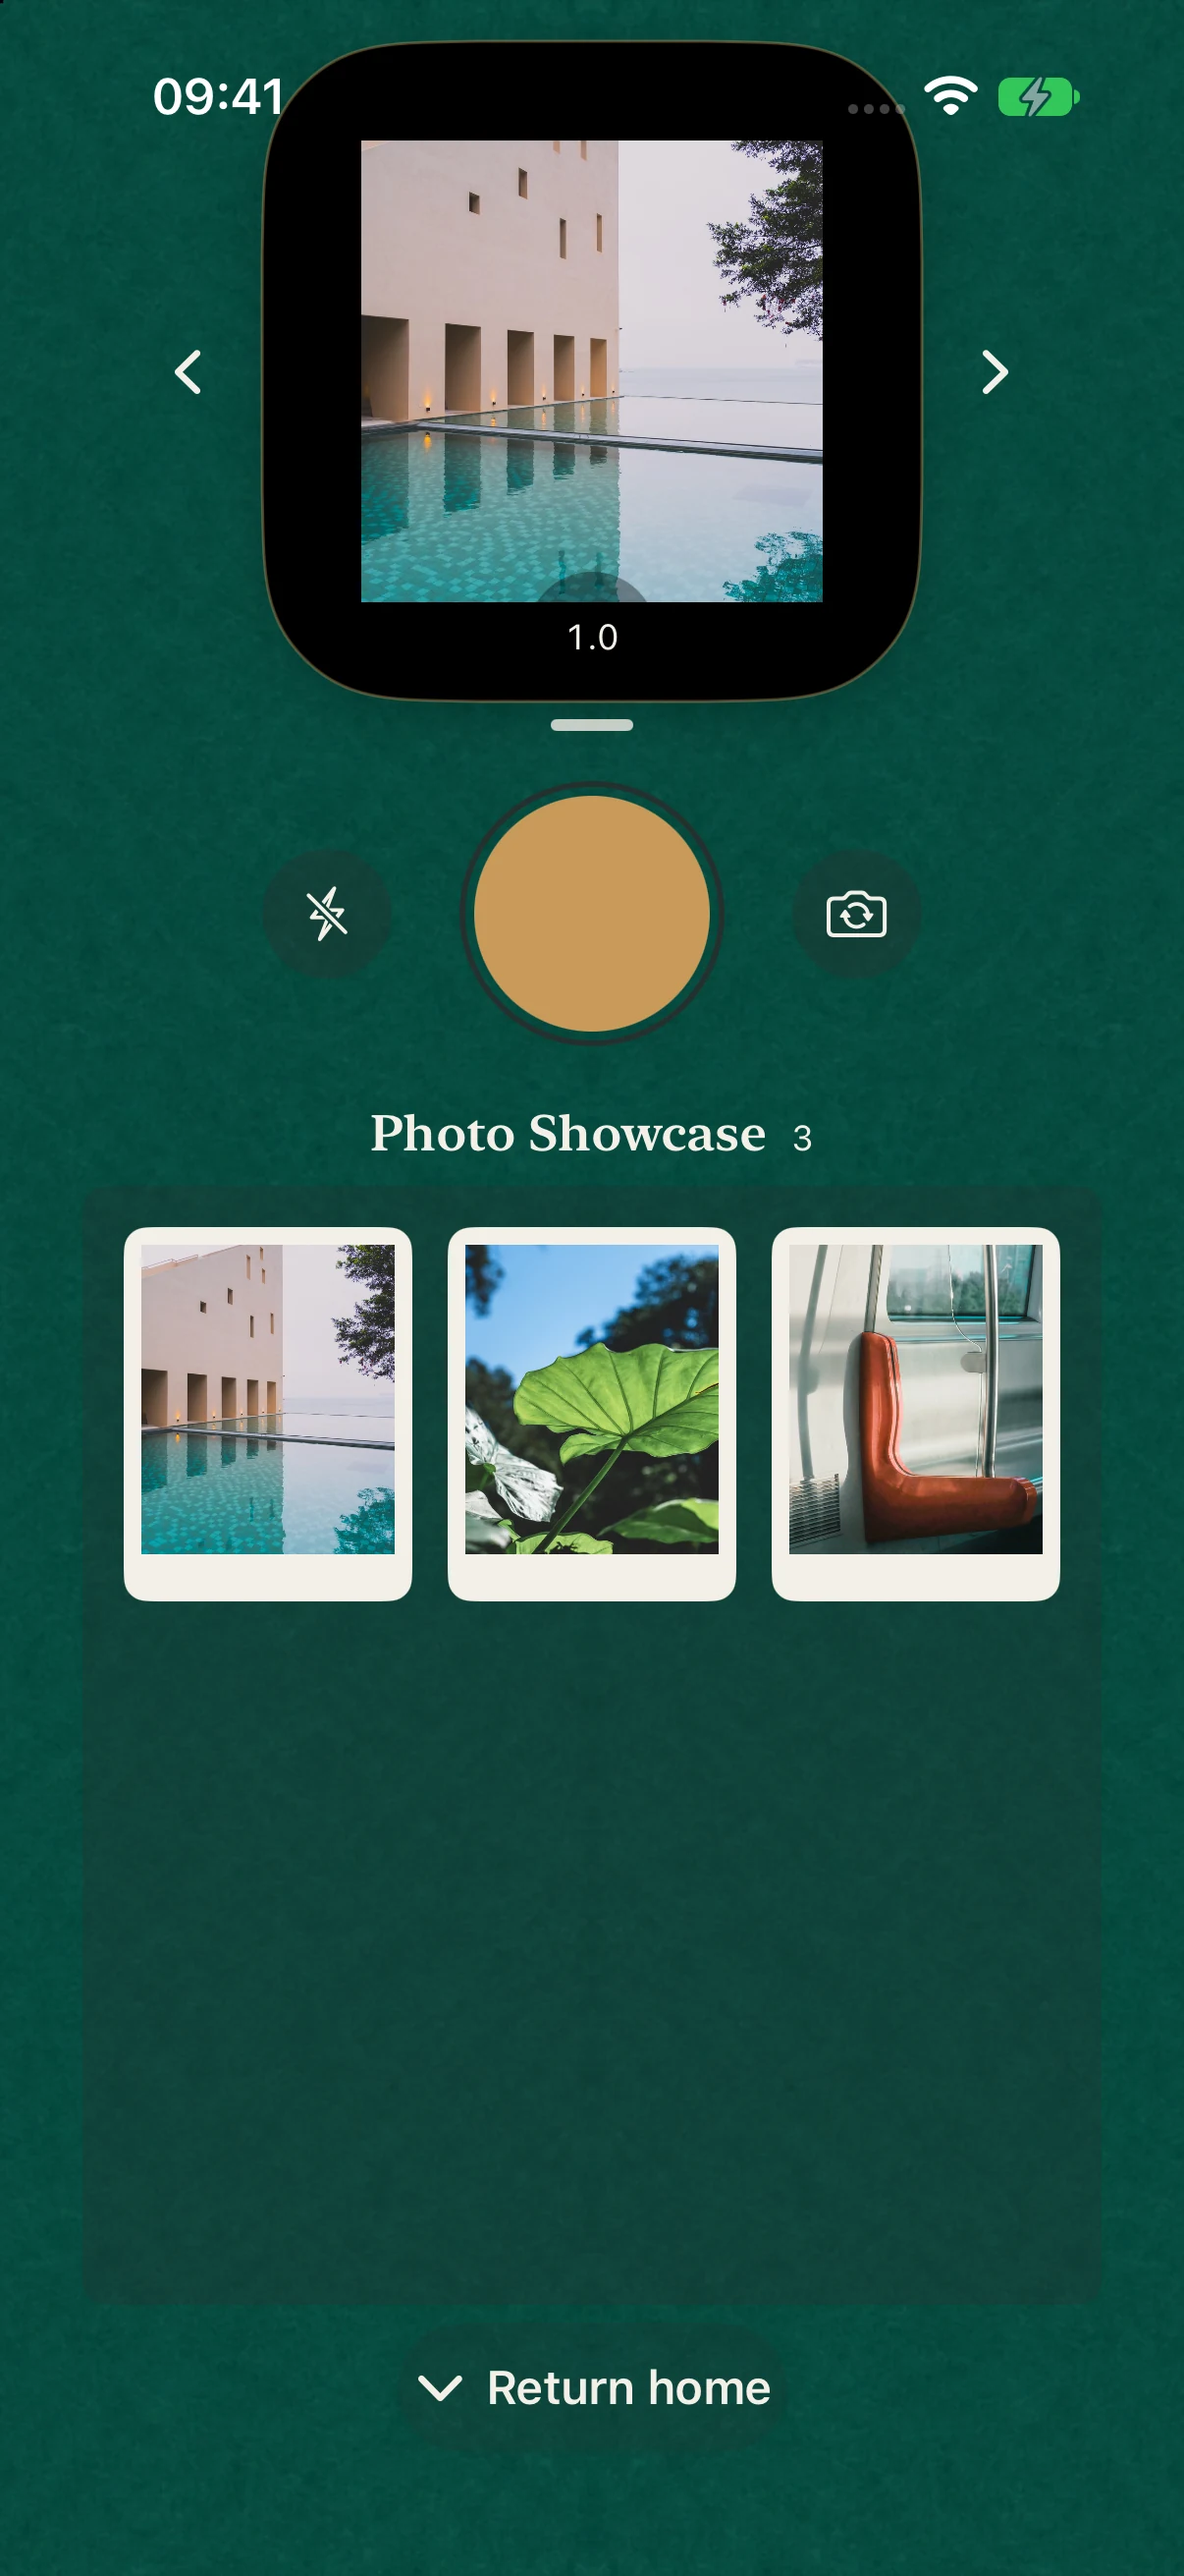
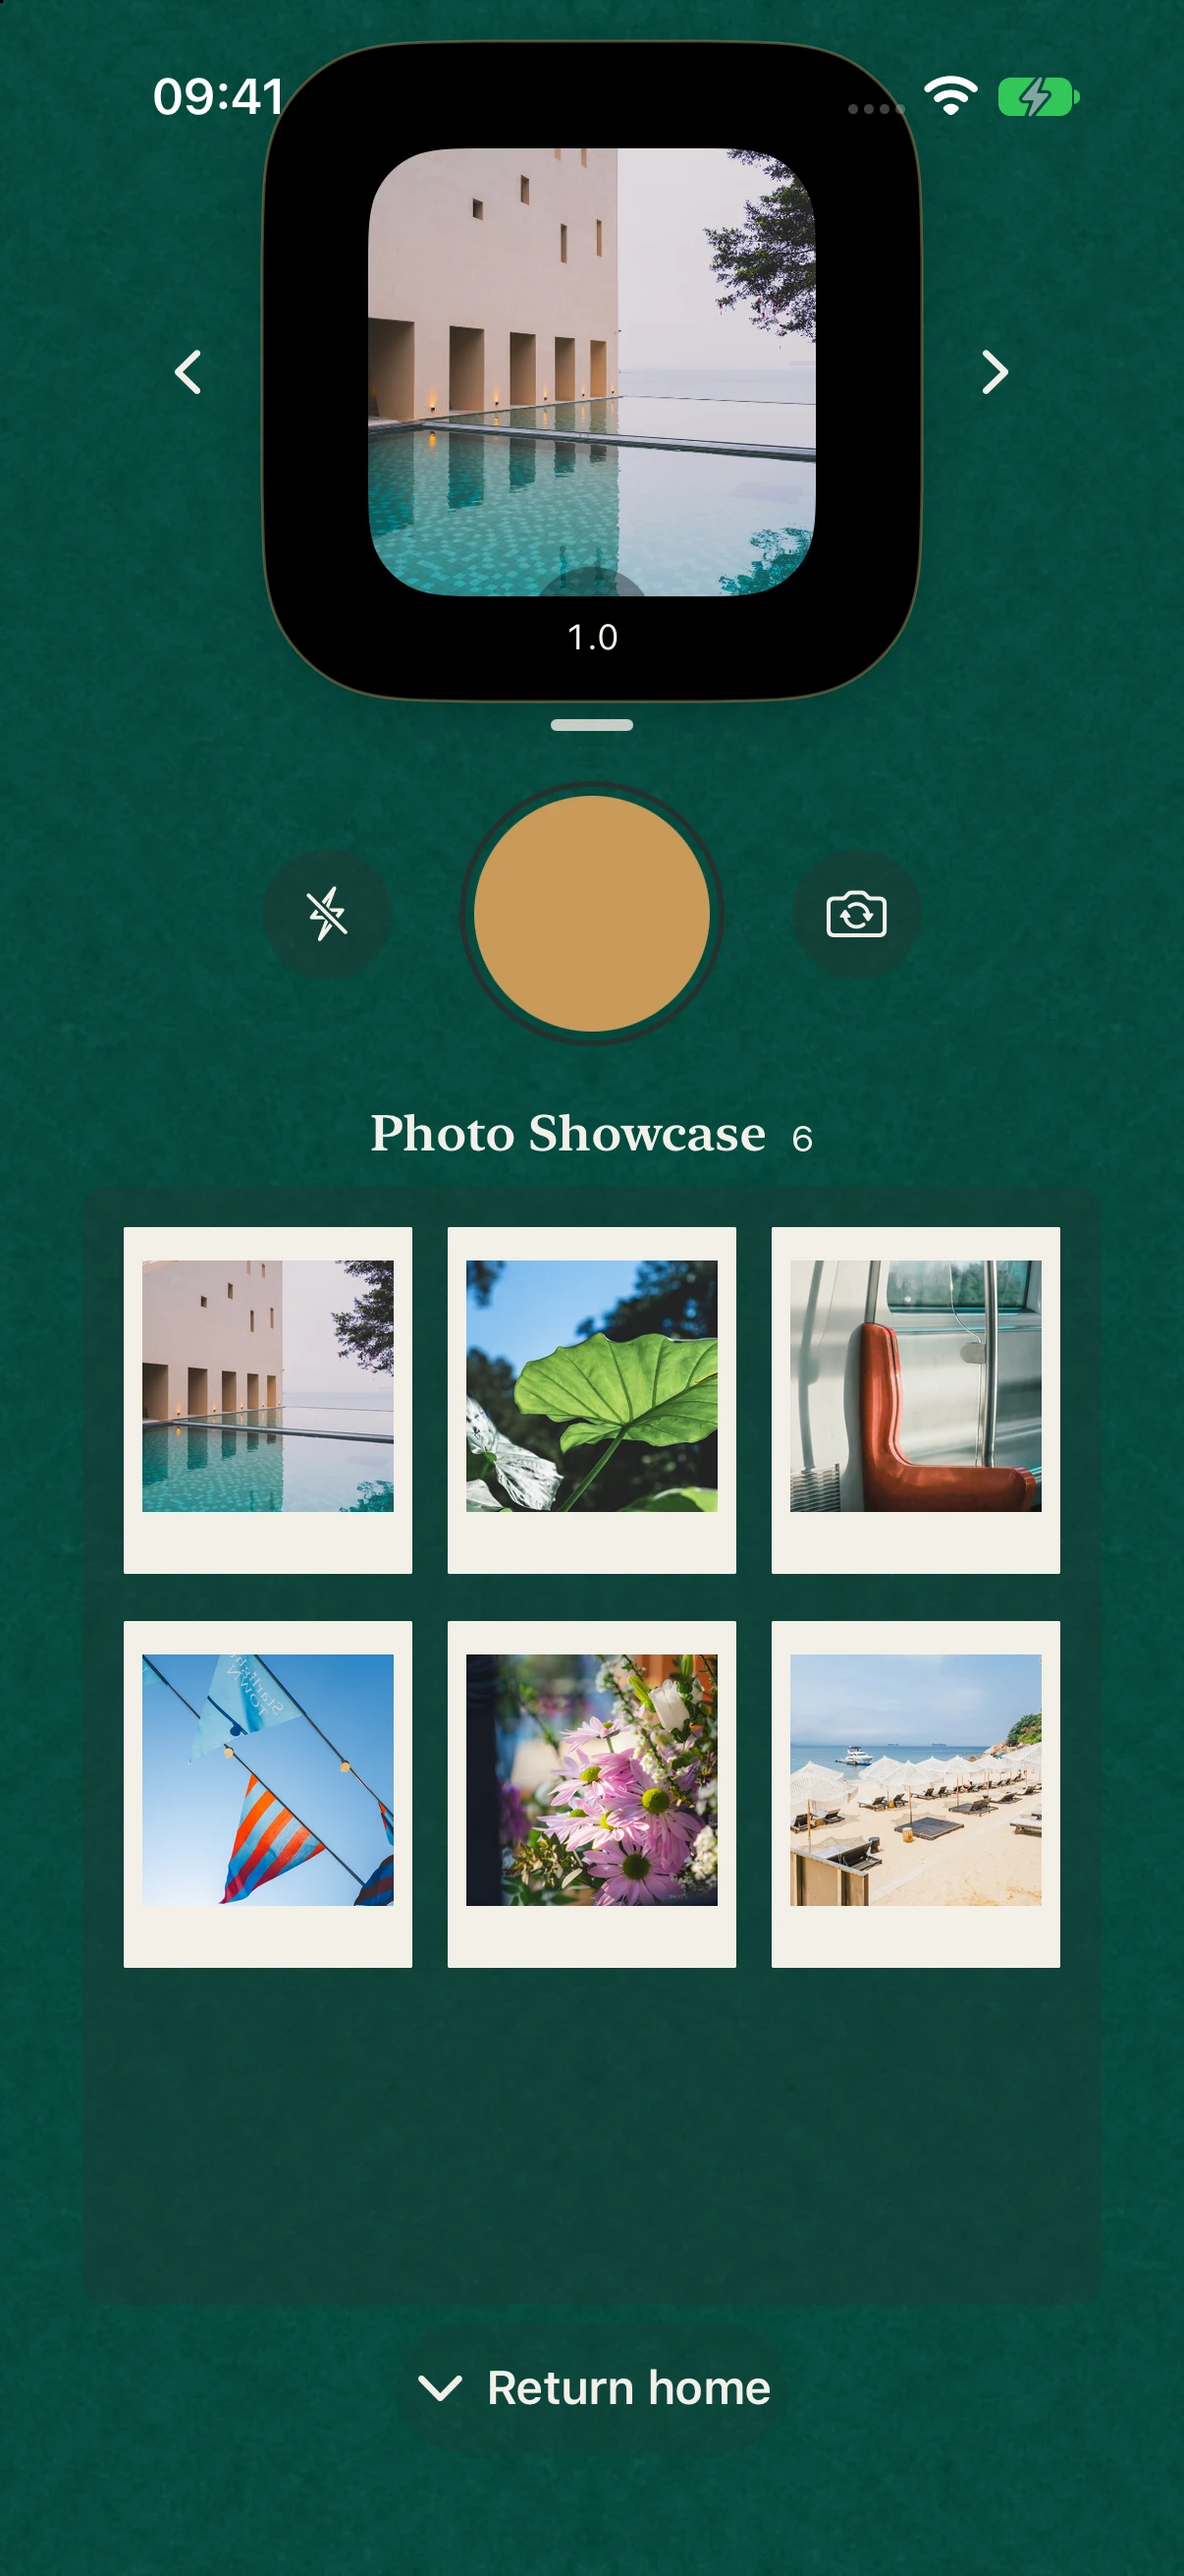
更新片笺官网双语小相机素材

diff --git a/pianjian/index-en.html b/pianjian/index-en.html
@@ -165,7 +165,7 @@
           <div class="camera-media">
             <figure class="phone camera-capture" data-error-label="This screen could not be loaded" data-loading-label="Loading the screen" data-phone="" data-retry-label="Try again">
               <div class="phone-screen">
-                <img alt="Postcard Camera on iPhone, with a square viewfinder, shutter and on-device Photo Showcase" class="phone-image" data-phone-image="" decoding="async" height="2622" loading="lazy" src="./assets/camera-floor-en.webp" width="1206"/>
+                <img alt="Postcard Camera on iPhone, with a square viewfinder, shutter and on-device Photo Showcase" class="phone-image" data-phone-image="" decoding="async" height="2622" loading="lazy" src="./assets/camera-floor-en.webp?v=20261119" width="1206"/>
               </div>
               <img alt="" aria-hidden="true" class="phone-shell" decoding="async" height="2822" loading="lazy" src="./assets/iphone-16-pro-black-titanium-portrait.png" width="1406"/>
             </figure>

diff --git a/pianjian/index.html b/pianjian/index.html
@@ -165,7 +165,7 @@
           <div class="camera-media">
             <figure class="phone camera-capture" data-error-label="这张画面暂时无法加载" data-loading-label="正在加载画面" data-phone="" data-retry-label="重新加载">
               <div class="phone-screen">
-                <img alt="片笺小相机页面，顶部是方形取景器，下方有快门和本机照片橱窗" class="phone-image" data-phone-image="" decoding="async" height="2622" loading="lazy" src="./assets/camera-floor-zh.webp" width="1206"/>
+                <img alt="片笺小相机页面，顶部是方形取景器，下方有快门和本机照片橱窗" class="phone-image" data-phone-image="" decoding="async" height="2622" loading="lazy" src="./assets/camera-floor-zh.webp?v=20261119" width="1206"/>
               </div>
               <img alt="" aria-hidden="true" class="phone-shell" decoding="async" height="2822" loading="lazy" src="./assets/iphone-16-pro-black-titanium-portrait.png" width="1406"/>
             </figure>

diff --git a/pianjian/README.md b/pianjian/README.md
@@ -1,6 +1,6 @@
 # 片笺双语官网组件
 
-作者 Condy，更新于 2026-11-10。
+作者 Condy，更新于 2026-11-19。
 
 ## 页面与设计方案
 
@@ -20,7 +20,7 @@
 
 桌面端采用左侧说明、右侧相机画面。720px 及以下依次显示标题与简介、相机画面、三步说明，让画面尽早进入可见区域。`.camera-capture` 复用图片加载与重试组件。双语相机素材均使用普通 iPhone 的 1206 × 2622 截图，共用外壳、屏幕开口定位与展示尺寸。
 
-相机素材沿用已有 20-debug 营销截图，经 WebP q88 转码，保留原始尺寸和完整内容。来源与哈希见 `assets/provenance.json`，对外发布前仍需与最终相机版本核对。
+双语相机素材使用 2026-11-19 iPhone 上架视觉稿的屏幕层：方形取景窗保留内部圆角与四边等宽黑边，拍照橱窗为两排、每排三张 Stelios 摄影。屏幕层以原尺寸转为 WebP q88，不包含上架图标题、纸背景或设备框。来源与哈希见 `assets/provenance.json`；该素材是离线视觉稿，不是当前审核 Build 的实拍截图。
 
 下载区使用当前 App Icon 的 512 × 512 WebP 展示图，配文为双语品牌名称。使用 `height: auto` 与正方形比例，桌面图宽上限 190px，630px 窗口为 150px，480px 及以下为 140px。图像来源与哈希记录在素材清单中。
 
